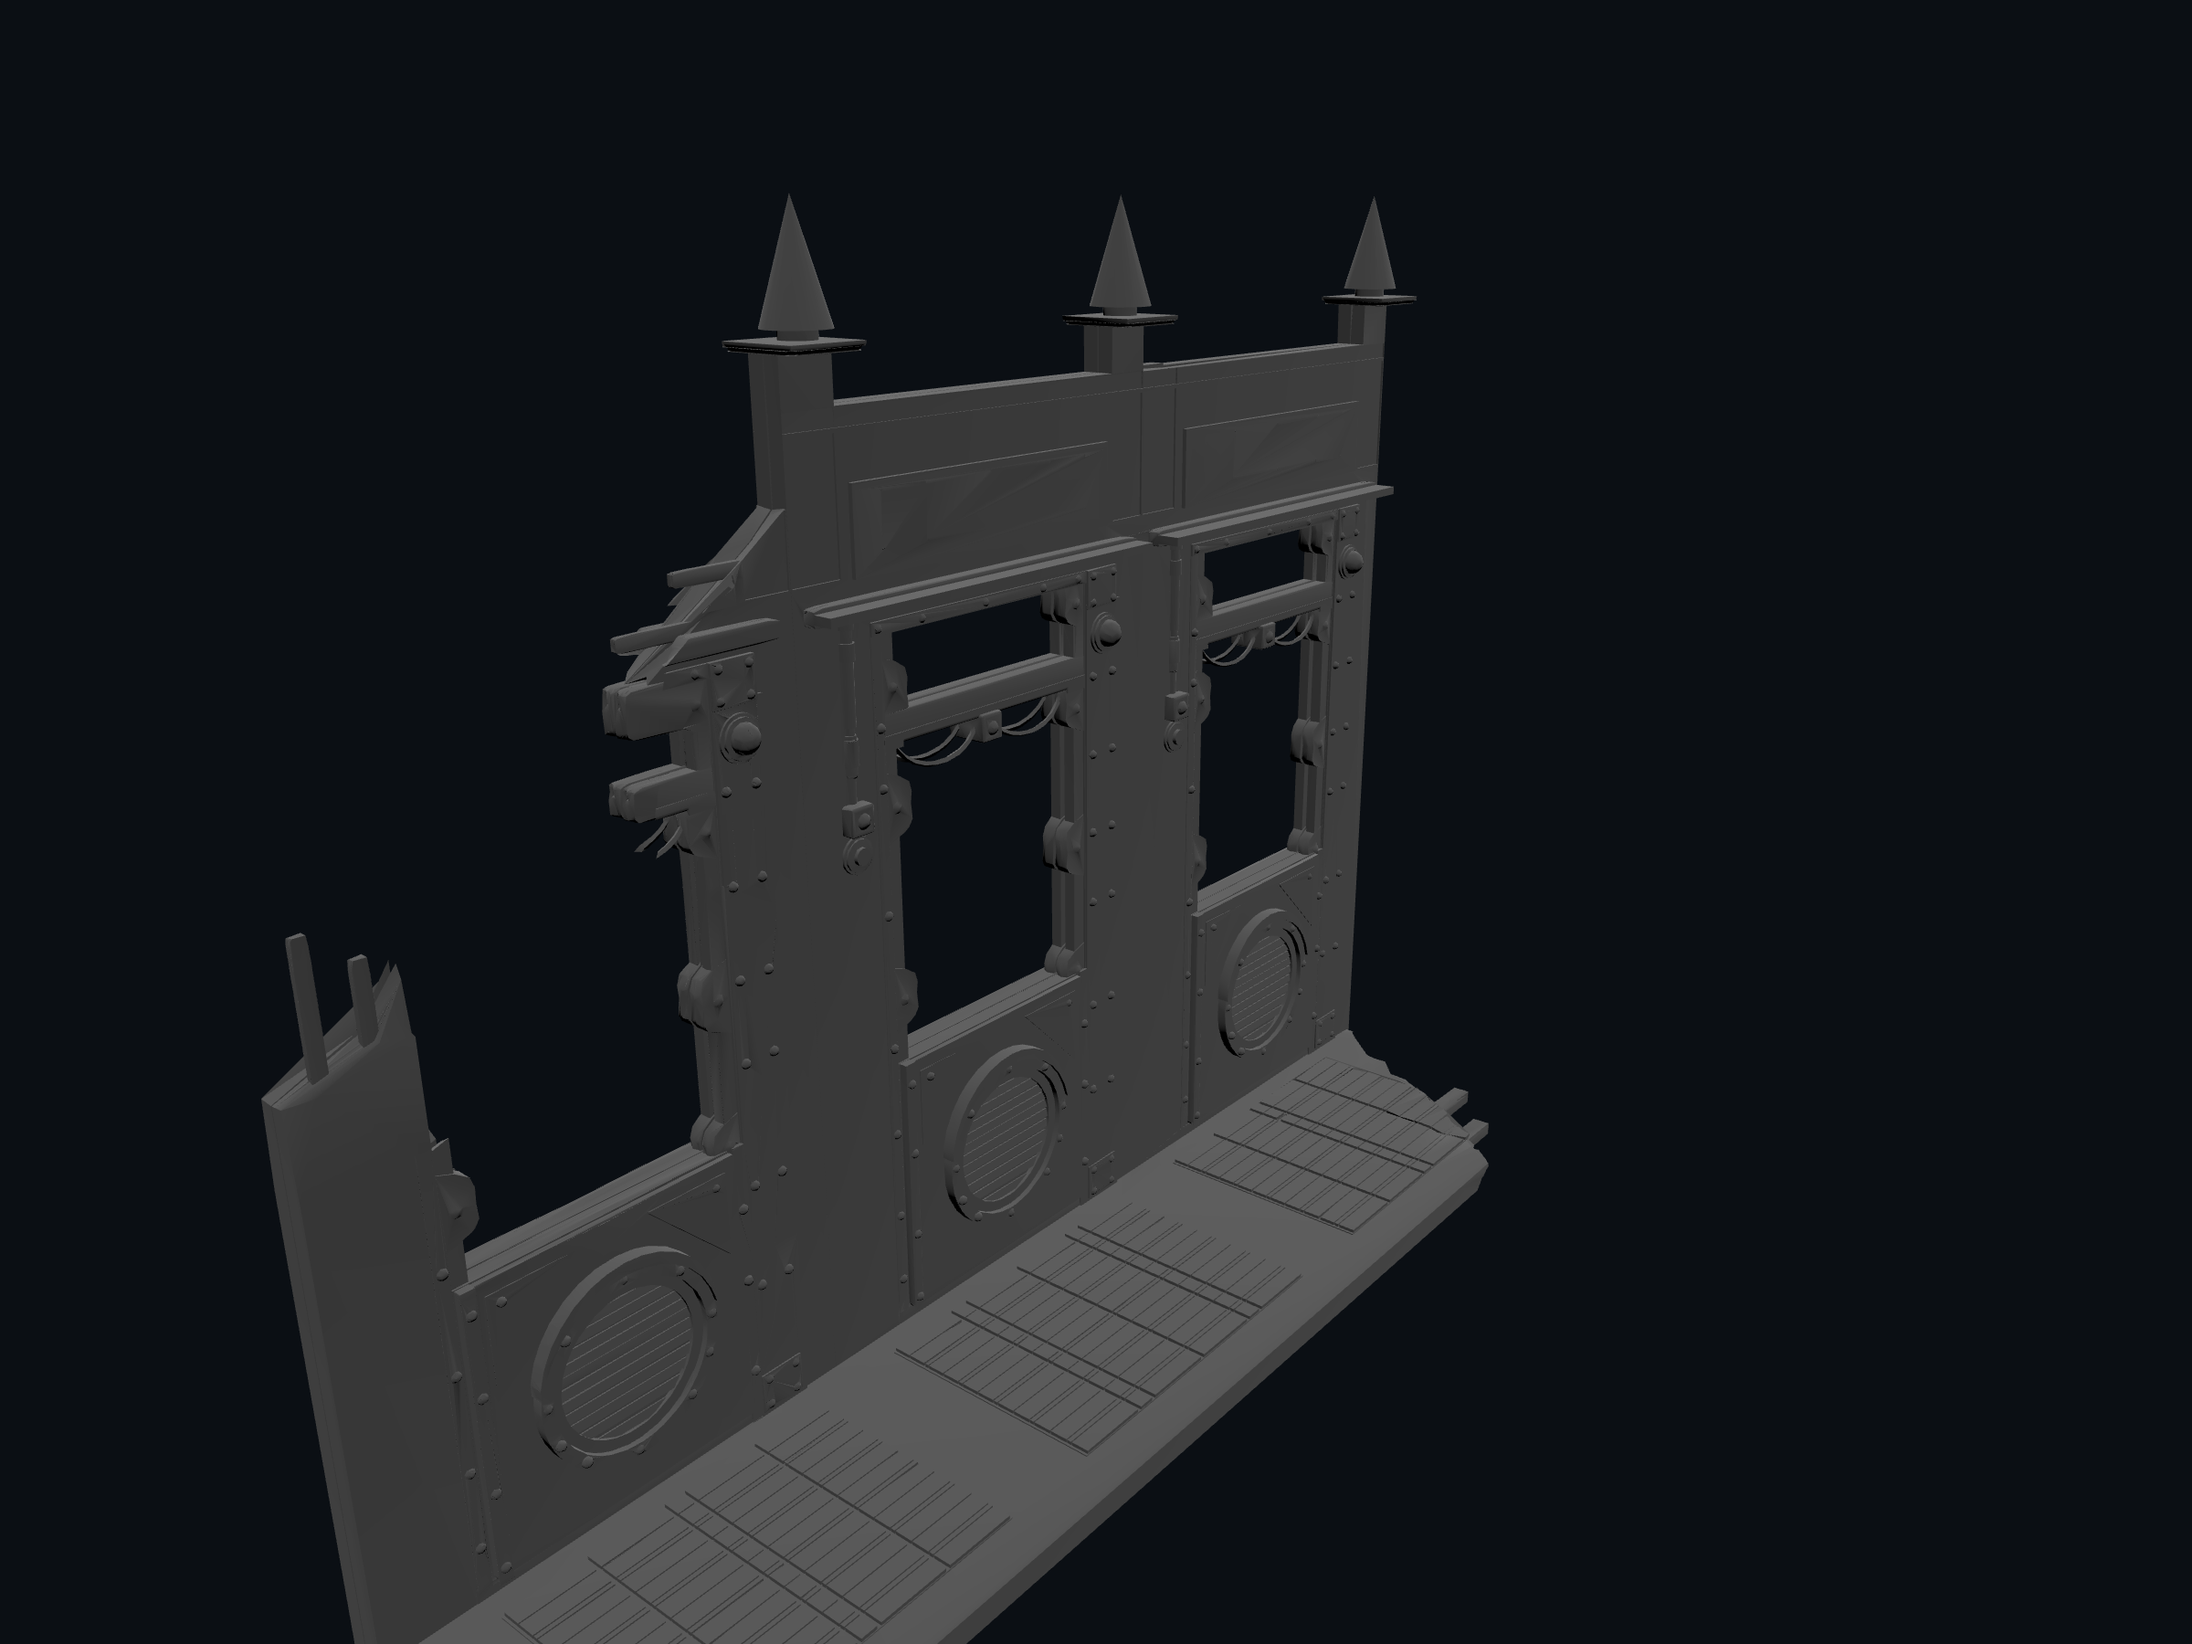
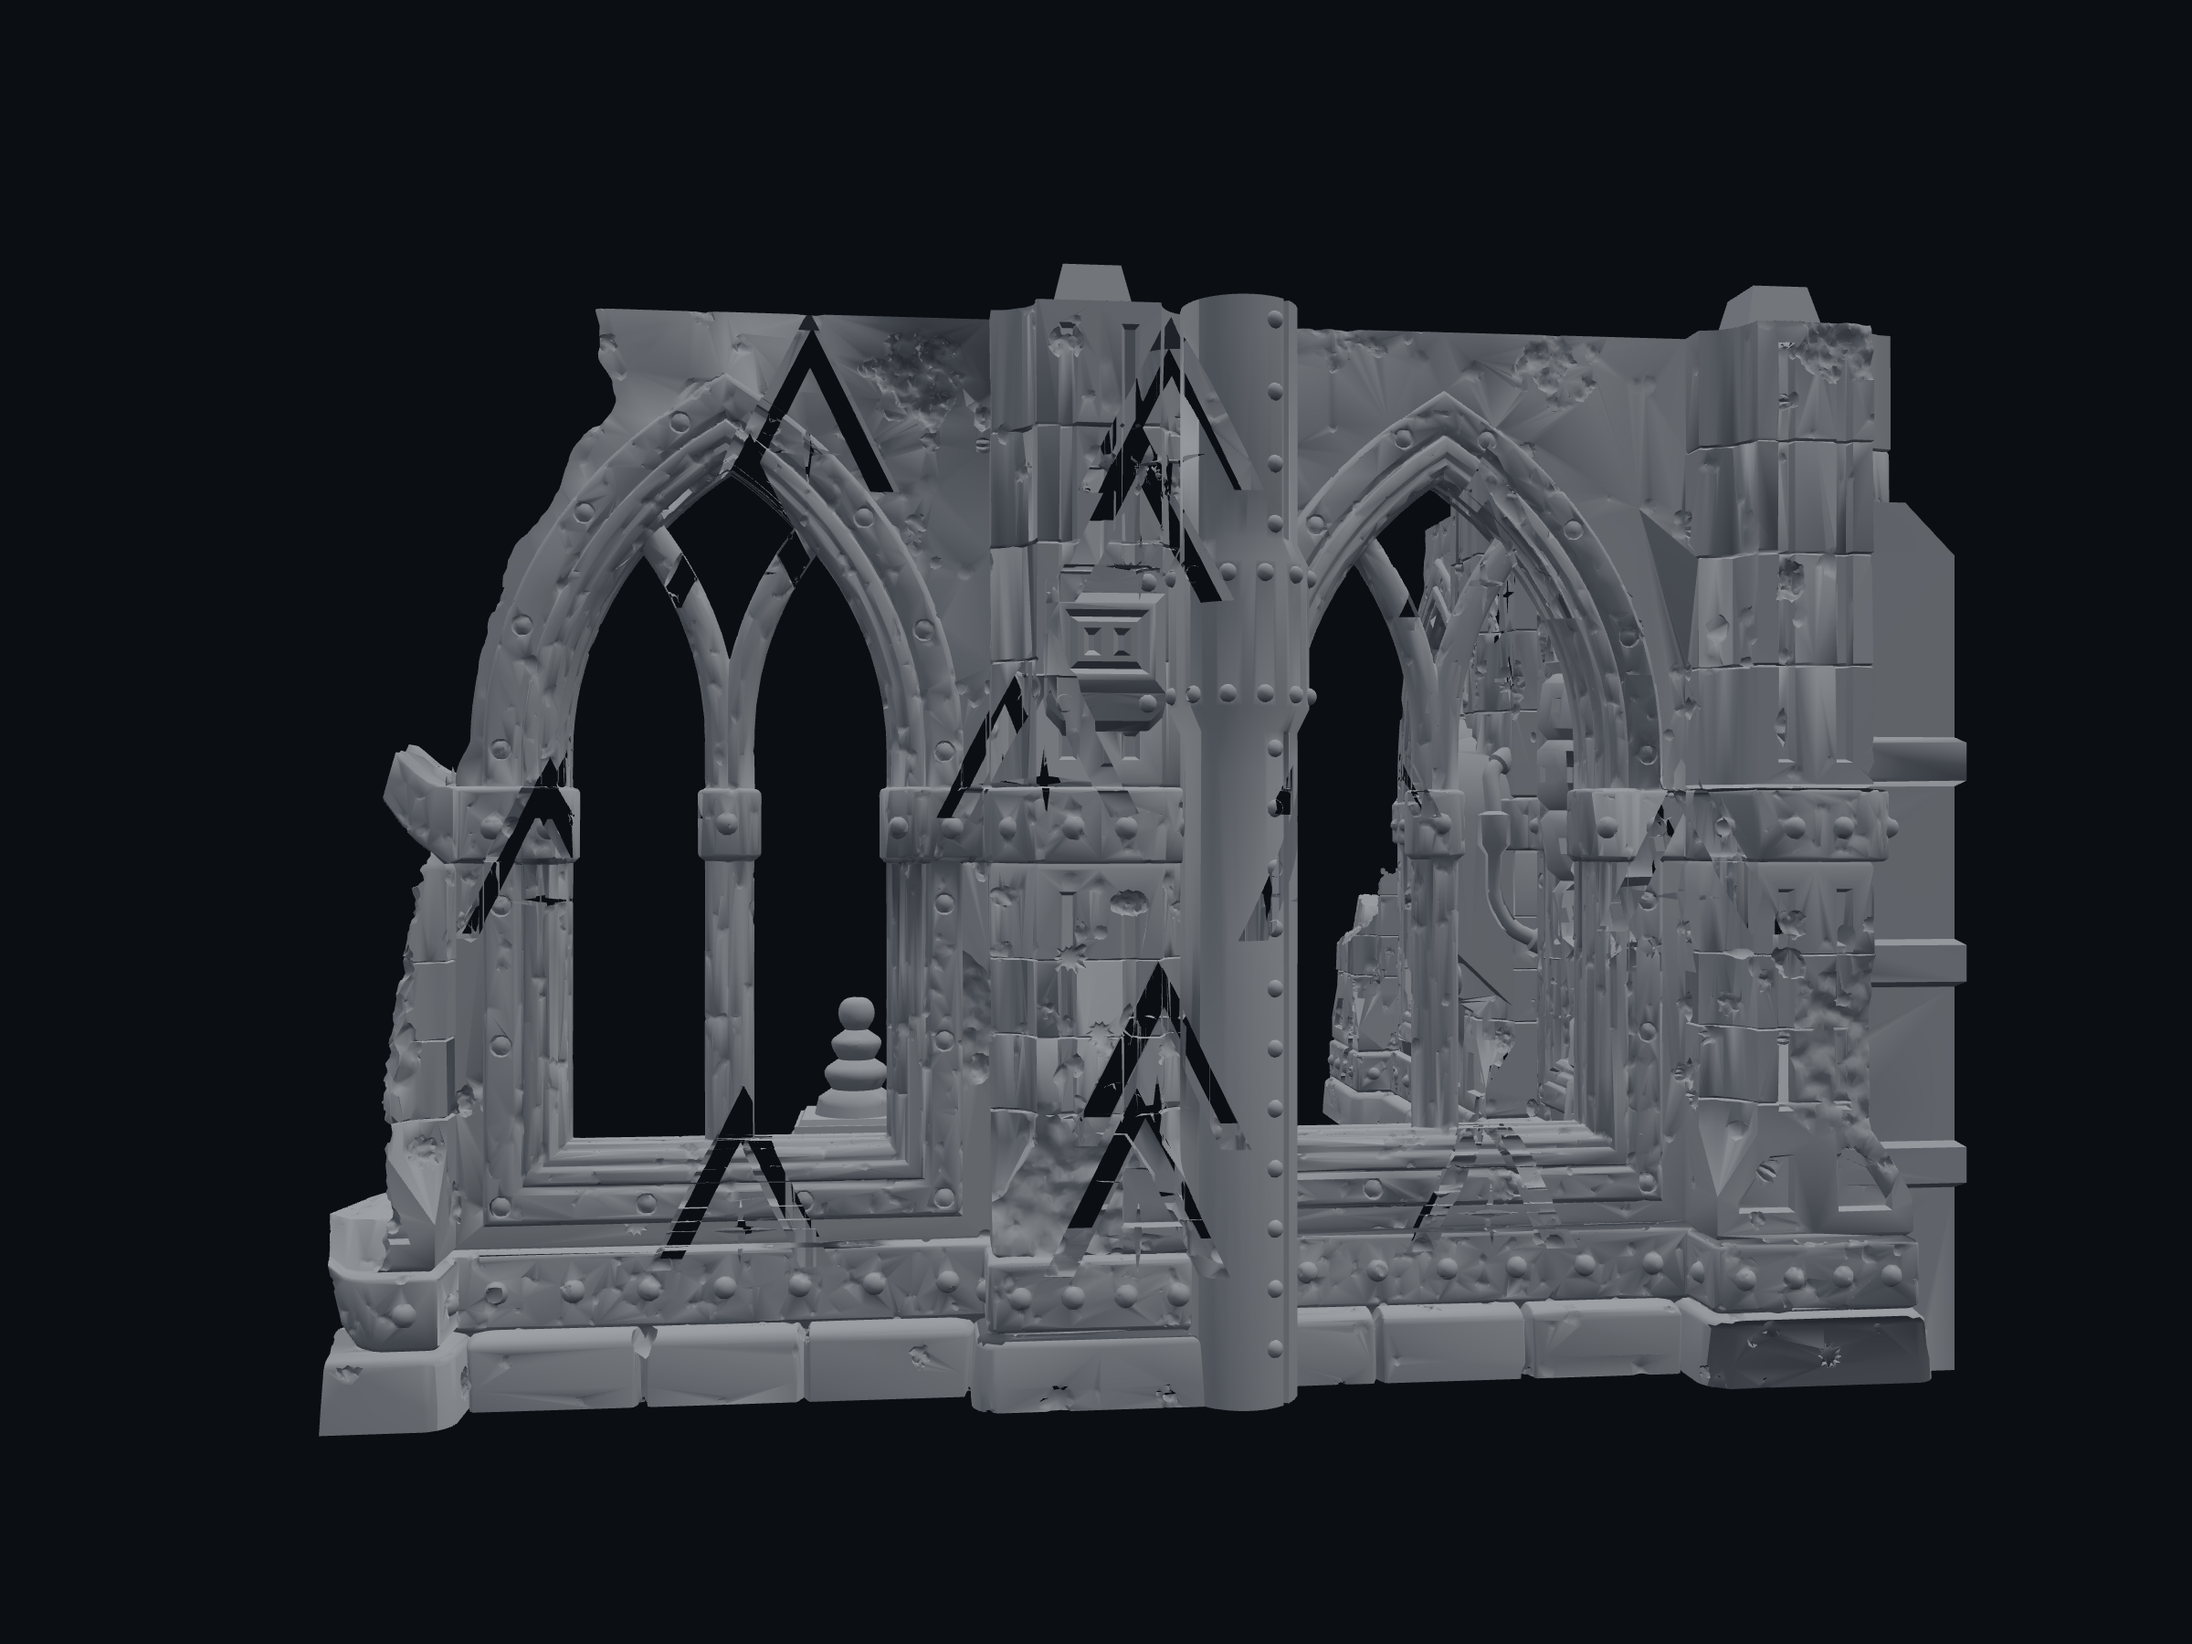
Planner preview-quality popup: Gothic church shots

diff --git a/frontend/public/assets/preview-quality/README.md b/frontend/public/assets/preview-quality/README.md
@@ -9,7 +9,11 @@ why the mesh on the table isn't what the buyer prints.
 | `planner-preview.png` | The model as the planner draws it — decimated to `TARGET_PREVIEW_TRIS`. |
 | `stl-detail.png` | The **same** model at full fidelity, no watermark — what the downloaded STL holds. |
 
-## How the current pair was generated (2026-08-30)
+## Current pair (2026-10-05): Gothic sci-fi ruin, corner-1-bottom-A.stl
+
+705,838-triangle source. `planner-preview.png` = the real production baked proxy of Gothic church (watermark emboss + decimation + stripped faces), fetched unauthenticated from `/api/models/<id>/preview.glb?variant=preview`; camera level (0° elevation), square to one wall so the chevron emboss cut-outs show; `stl-detail.png` = `convertSTLtoGLBFull`, the **owner** copy (240k tris, decimated from 705k by `OWNER_GLB_TARGET_TRIS`, so it is not the raw STL). Rendered with ThreeStage's lighting, identical camera, 1200x900 at DPR 2. The notes below describe the earlier (2026-08-30) pair but the method is the same.
+
+## How the earlier pair was generated (2026-08-30)
 
 Both come from the **real production converters**, not a mock-up — the claim on that
 popup has to be literally true of what the pipeline does, same standard as the
